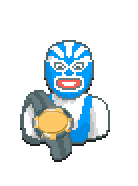
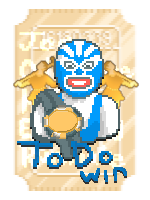
graphic improvements

diff --git a/index.html b/index.html
@@ -40,10 +40,9 @@
             <div class="card-layer card-layer-base"></div>
             <div class="card-layer card-layer-top" id="gstakes-asset"></div> </div>
             
-            <div class="main-card-wrapper" data-card-type="placeholder-2">
-                <div class="card-layer card-layer-base"></div>
-                <div class="card-layer card-layer-top"></div>
-            </div>
+            <div class="main-card-wrapper" data-card-type="placeholder-3">
+            <div class="card-layer card-layer-base"></div>
+            <div class="card-layer card-layer-top" id="osobowosc-asset"></div> </div>
             
             <div class="main-card-wrapper" id="import-card-wrapper" data-card-type="import">
                 <div class="card-layer card-layer-base"></div>

diff --git a/index-files/index.css b/index-files/index.css
@@ -389,3 +389,10 @@ body {
     background-size: 80% auto; 
     background-position: center center; 
 }
+
+/* 🔥 STYL DLA NOWEJ KARTY osobowosc.PNG (2. od lewej) 🔥 */
+#osobowosc-asset {
+    background-image: url('../assets/osobowosc.png'); 
+    background-size: 80% auto; 
+    background-position: center center; 
+}
